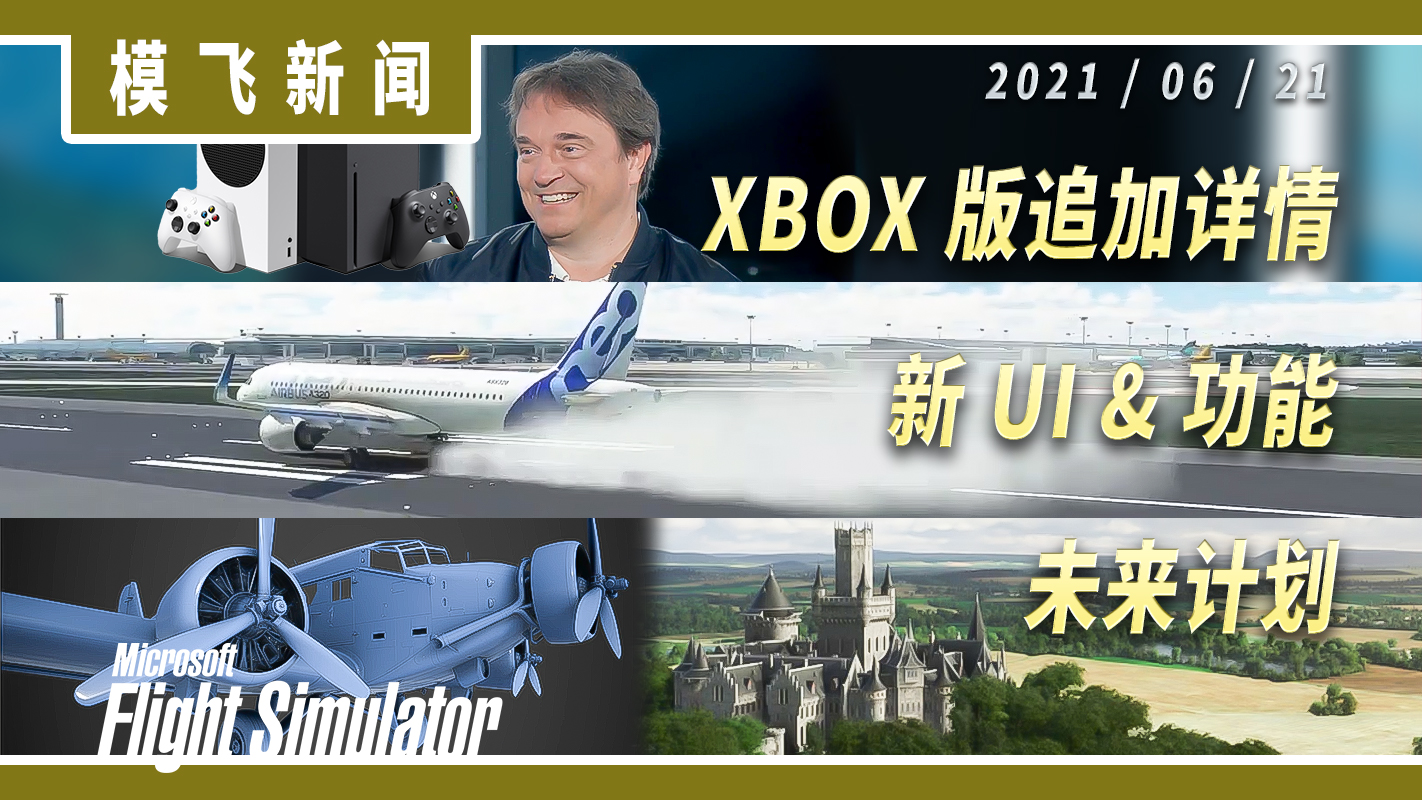
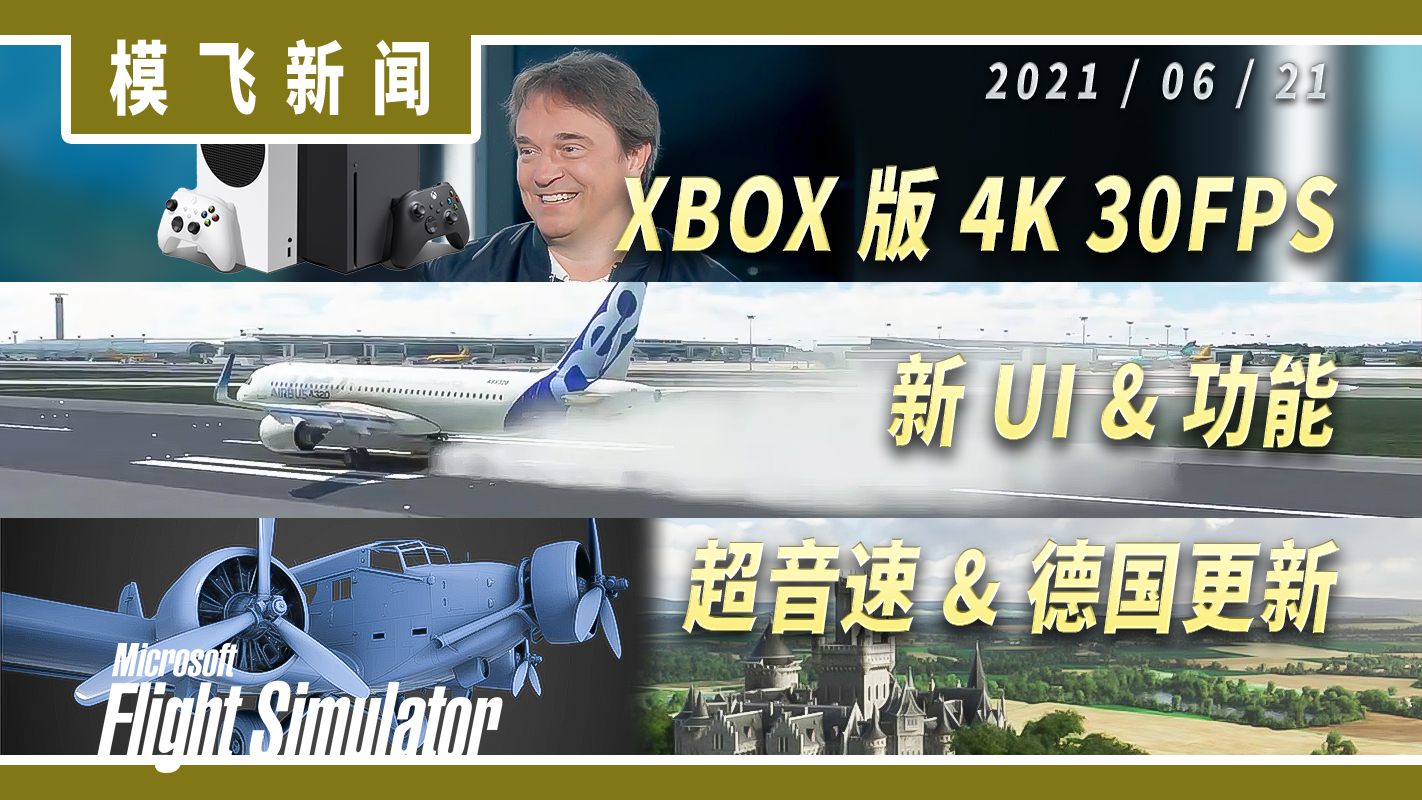
new vid

Changed region(s): [[0.4332, 0.625, 1.0, 0.9688], [0.4023, 0.1875, 0.9592, 0.375]]

diff --git a/data/videos.ts b/data/videos.ts
@@ -3,6 +3,22 @@ import { VideoItem } from '@types';
 const videos: VideoItem[] = [
     {
         name: {
+            zh: '着陆挑战: Ísafjörður - 180°调头进近',
+        },
+        des: {
+            zh: '微软模拟飞行的世界更新第5弹：北欧，已于近日正式上线。按照惯例，本次更新也带来了所属地区的着陆挑战。今天我们先来挑战的这座机场名为……呃…… Ísafjarðarflugvöllur （伊萨菲厄泽机场）。机场地处冰岛西北部，由于地形原因，基本只能选用 08 跑道着陆，而进近则需要贴着周围的山脉来一个180°调头，难度颇高',
+        },
+        thumbnailOriginal: './thumbnails/20210624.jpg',
+        link: {
+            youtube: 'https://youtu.be/7FV0uab-wg8',
+            bilibili: 'https://www.bilibili.com/video/BV1m64y197jk',
+        },
+        tag: ['landing'],
+        release: new Date('2021-06-24T12:05:00+0800').valueOf(),
+    },
+
+    {
+        name: {
             zh: '新闻: 4K30帧 & 新UI & 德国更新 & 超音速？',
         },
         des: {
